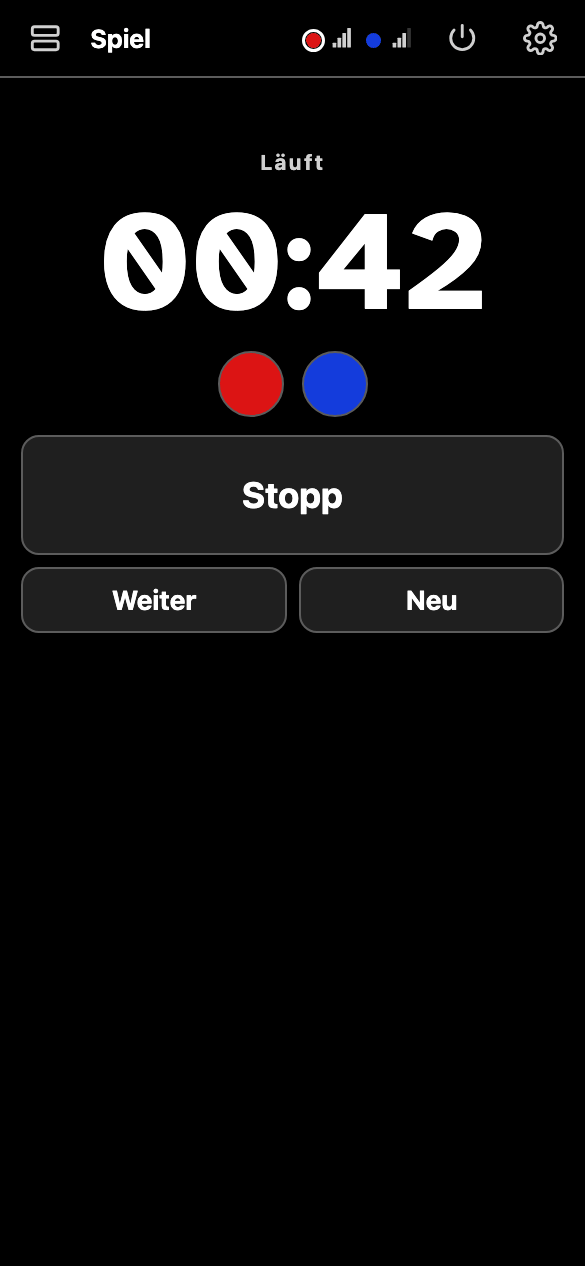
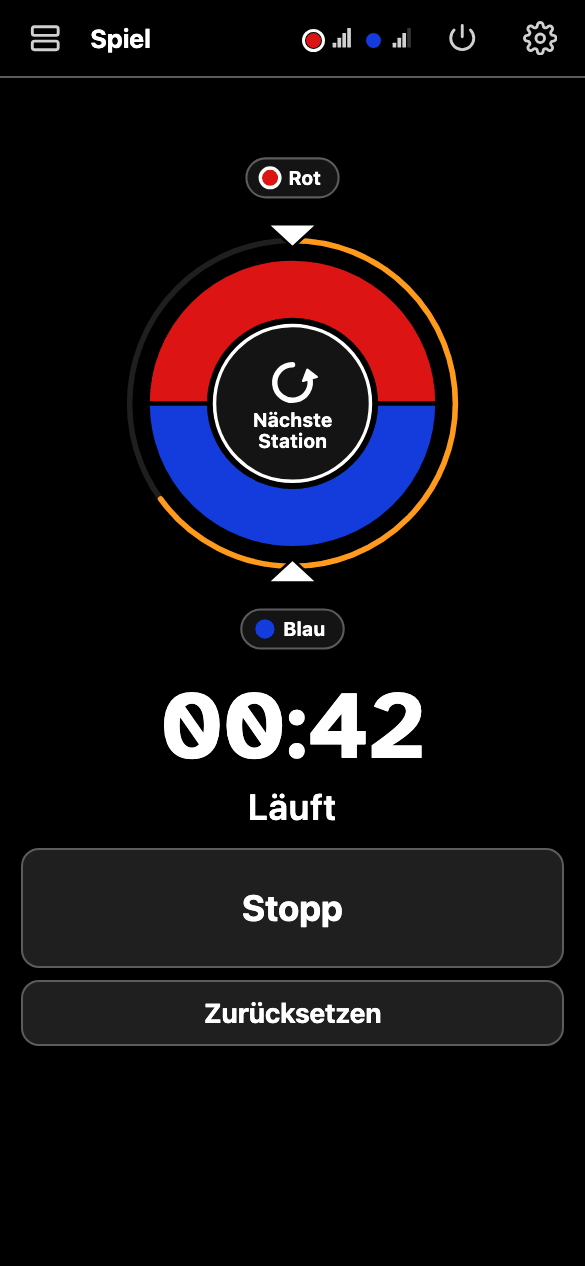
Catch up the site with GAMiq 4.3: Stoppuhr, interval timer, roles, circuit training wheel, sync script and pictures

diff --git a/src/css/tokens.css b/src/css/tokens.css
@@ -1,4 +1,4 @@
-/* Synced from gamiq platform/frontend/tokens.css at fb7ec4d by scripts/sync-tokens.mjs. Do not edit. */
+/* Synced from gamiq platform/frontend/tokens.css at 7b61e28 by scripts/sync-tokens.mjs. Do not edit. */
 :root {
   --bg: #000000; --surface: #141414; --raised: #1f1f1f; --line: #5c5c5c;
   --text: #ffffff; --muted: #d0d0d0; --accent: #ff9a1a; --on-accent: #000000;
@@ -10,6 +10,8 @@
   --font-num: "Atkinson Hyperlegible", system-ui, sans-serif;
   --num-slant: normal;
   --radius: 12px; --stroke: 1.5px; --label-case: none;
+  /* the status word of a game (Bereit, Läuft, Pause ...): bigger than a caption, in the digits' font, white, so it stands out from the captions */
+  --status-size: var(--fs-24); --status-weight: 600; --status-tracking: 0.02em; --status-color: var(--text); --status-font: var(--font-num);
   /* fixed scale, the same for every look */
   --fs-12: 12px; --fs-13: 13px; --fs-14: 14px; --fs-15: 15px; --fs-16: 16px; --fs-18: 18px; --fs-24: 24px; --fs-28: 28px;
   --sp-1: 4px; --sp-2: 8px; --sp-3: 12px; --sp-4: 16px;

diff --git a/src/css/site.css b/src/css/site.css
@@ -88,7 +88,7 @@ footer .wrap{display:flex;flex-wrap:wrap;gap:var(--sp-6);align-items:center}foot
 .set .bub{padding:var(--sp-2);background:#050505}
 @media(max-width:560px){.set{grid-template-columns:1fr 1fr}}
 .also{margin-top:var(--sp-4);display:flex;flex-wrap:wrap;gap:var(--sp-2);align-items:center;color:var(--muted);font-size:var(--fs-14)}
-.gt{display:grid;grid-template-columns:repeat(4,1fr);gap:var(--sp-6)}
+.gt{display:grid;grid-template-columns:repeat(3,1fr);gap:var(--sp-6)}
 .gt .card{display:flex;flex-direction:column;gap:var(--sp-3)}
 .gt .pair{display:grid;grid-template-columns:1fr 1fr;gap:var(--sp-2)}
 .gt .pair .bub,.gt .pair img{border-radius:10px}.gt .pair .bub{padding:4px;background:#050505;filter:none;border-radius:10px}
